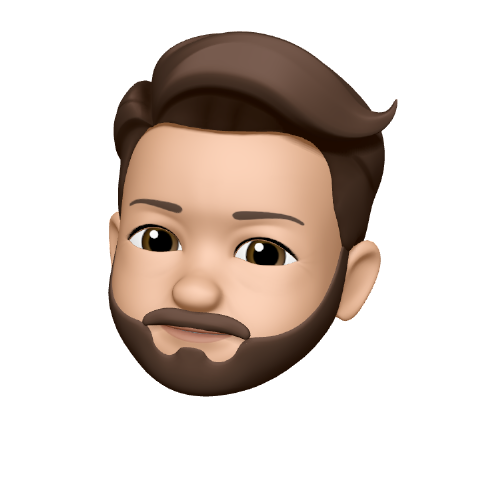
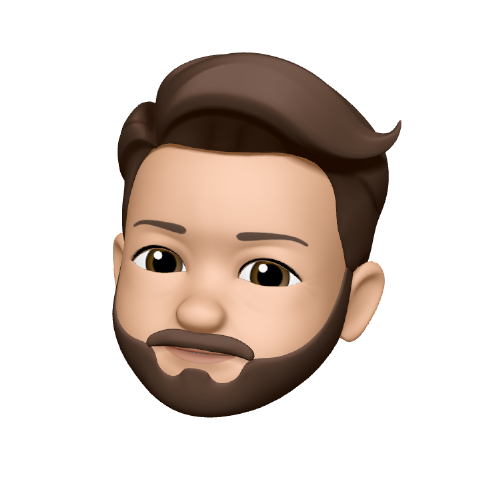
Adopt latest API for typography and minor changes

Changed region(s): [[0.2188, 0.0625, 0.8438, 0.875]]

diff --git a/pages/index.js b/pages/index.js
@@ -1,42 +1,59 @@
 import React from "react";
 import Icon from "supercons";
+import Image from "next/image";
 
 import Layout from "@components/layout";
 import PostItem from "@components/postItem";
 import PostCard from "@components/postCard";
 import { getAllPostsForHome } from "@lib/cms";
+import profilePic from "../public/memoji.png";
 
 const Home = ({ posts }) => {
   return (
     <Layout>
       <div className="mt-24 lg:w-2/3 xl:w-1/2 mb-16 lg:mx-auto">
-        <h1 className="font-display font-semibold lg:text-5xl text-4xl mb-6 dark:text-gray-200">
-          Hola,
-          <br />
-          mi nombre es{" "}
-          <span className="bg-gradient-to-r from-red-500 to-orange-400 dark:from-red-400 dark:to-pink-400 bg-clip-text text-transparent">
-            Daniel Castillejo
-          </span>
-        </h1>
-        <h2 className="text-gray-700 dark:text-gray-400 font-body text-xl lg:text-2xl">
-          Soy Desarrollador de Software, entusiasta del Diseño y amante de la
-          Música.
-        </h2>
-        <div className="flex justify-between w-2/3 lg:w-1/3 mt-8 mb-32">
-          <div className="transition duration-300 transform hover:scale-110 hover:text-gray-900 dark:hover:text-gray-300 text-gray-400 rounded-full">
-            <a href="https:\\github.com\dkast" className="p-2 block">
-              <Icon glyph="github-fill" size={40} />
-            </a>
+        <div className="grid grid-cols-3 gap-6">
+          {/* Header and Social Networks */}
+          <div className="col-span-2">
+            <h1 className="font-display font-semibold lg:text-5xl text-4xl mb-6 dark:text-gray-200">
+              Hola,
+              <br />
+              mi nombre es{" "}
+              <span className="bg-gradient-to-r from-red-500 to-orange-400 dark:from-red-400 dark:to-pink-400 bg-clip-text text-transparent">
+                Daniel Castillejo
+              </span>
+            </h1>
+            <h2 className="text-gray-700 dark:text-gray-400 font-body text-xl lg:text-2xl">
+              Soy Desarrollador de Software, entusiasta del Diseño y amante de
+              la Música.
+            </h2>
+            <div className="flex justify-between w-2/3 lg:w-1/3 mt-8 mb-32">
+              <div className="transition duration-300 transform hover:scale-110 hover:text-gray-900 dark:hover:text-gray-300 text-gray-400 rounded-full">
+                <a href="https:\\github.com\dkast" className="p-2 block">
+                  <Icon glyph="github-fill" size={40} />
+                </a>
+              </div>
+              <div className="transition duration-300 transform hover:scale-110 hover:text-blue-400 text-gray-400 rounded-full">
+                <a href="https:\\twitter.com\dkast" className="p-2 block">
+                  <Icon glyph="twitter-fill" size={40} />
+                </a>
+              </div>
+              <div className="transition duration-300 transform hover:scale-110 hover:text-pink-600 text-gray-400 rounded-full">
+                <a href="https:\\instragram.com\dkast" className="p-2 block">
+                  <Icon glyph="instagram-fill" size={40} />
+                </a>
+              </div>
+            </div>
           </div>
-          <div className="transition duration-300 transform hover:scale-110 hover:text-blue-400 text-gray-400 rounded-full">
-            <a href="https:\\twitter.com\dkast" className="p-2 block">
-              <Icon glyph="twitter-fill" size={40} />
-            </a>
-          </div>
-          <div className="transition duration-300 transform hover:scale-110 hover:text-pink-600 text-gray-400 rounded-full">
-            <a href="https:\\instragram.com\dkast" className="p-2 block">
-              <Icon glyph="instagram-fill" size={40} />
-            </a>
+          {/* Profile Image */}
+          <div className="flex justify-center items-start">
+            <Image
+              src={profilePic}
+              alt="Avatar of the Author"
+              width={140}
+              height={140}
+              className="bg-gradient-to-br from-red-500 to-orange-400 dark:from-red-400 dark:to-pink-400 rounded-full"
+            ></Image>
           </div>
         </div>
         <h2 className="font-body text-xl mb-4 text-gray-600 dark:text-gray-200">

diff --git a/tailwind.config.js b/tailwind.config.js
@@ -14,79 +14,7 @@ module.exports = {
         body: ["Hind", "sans-serif"],
         sub: ["Roboto Mono", "sans-serif"],
         sans: ["Hind", ...fontFamily.sans]
-      },
-      typography: theme => ({
-        DEFAULT: {
-          css: {
-            color: theme("colors.gray.700")
-          }
-        },
-        light: {
-          css: [
-            {
-              color: theme("colors.gray.400"),
-              '[class~="lead"]': {
-                color: theme("colors.gray.300")
-              },
-              a: {
-                color: theme("colors.red.300")
-              },
-              strong: {
-                color: theme("colors.white")
-              },
-              "ol > li::before": {
-                color: theme("colors.gray.400")
-              },
-              "ul > li::before": {
-                backgroundColor: theme("colors.gray.600")
-              },
-              hr: {
-                borderColor: theme("colors.gray.200")
-              },
-              blockquote: {
-                color: theme("colors.gray.200"),
-                borderLeftColor: theme("colors.gray.600")
-              },
-              h1: {
-                color: theme("colors.white")
-              },
-              h2: {
-                color: theme("colors.white")
-              },
-              h3: {
-                color: theme("colors.white")
-              },
-              h4: {
-                color: theme("colors.white")
-              },
-              "figure figcaption": {
-                color: theme("colors.gray.400")
-              },
-              code: {
-                color: theme("colors.white")
-              },
-              "a code": {
-                color: theme("colors.white")
-              },
-              pre: {
-                color: theme("colors.gray.200")
-              },
-              thead: {
-                color: theme("colors.white"),
-                borderBottomColor: theme("colors.gray.400")
-              },
-              "tbody tr": {
-                borderBottomColor: theme("colors.gray.600")
-              }
-            }
-          ]
-        }
-      })
-    }
-  },
-  variants: {
-    extend: {
-      typography: ["dark"]
+      }
     }
   },
   plugins: [require("@tailwindcss/typography")]

diff --git a/pages/post/[slug].js b/pages/post/[slug].js
@@ -5,8 +5,9 @@ import { NextSeo } from "next-seo";
 import { MDXRemote } from "next-mdx-remote";
 import { useRouter } from "next/dist/client/router";
 
-import Layout from "../../components/layout";
-import HeroImage from "../../components/heroImage";
+import Layout from "@components/layout";
+import HeroImage from "@components/heroImage";
+import Markdown from "@components/markdown";
 import { getAllPosts, getPostAndMorePosts } from "../../lib/cms";
 
 const Post = ({
@@ -69,9 +70,9 @@ const Post = ({
         <HeroImage unsplashId={post.fields.unsplashId}></HeroImage>
       </div>
       <div className="py-8 max-w-2xl mx-auto">
-        <div className="prose lg:prose-lg prose-red dark:prose-light max-w-none mt-8 lg:mt-18">
+        <Markdown className="max-w-none mt-8 lg:mt-18">
           <MDXRemote {...mdxSource} />
-        </div>
+        </Markdown>
       </div>
     </Layout>
   );

diff --git a/pages/about.js b/pages/about.js
@@ -2,8 +2,9 @@ import React from "react";
 import Head from "next/head";
 import { MDXRemote } from "next-mdx-remote";
 
-import Layout from "../components/layout";
-import { getPageContent } from "../lib/cms";
+import Layout from "@components/layout";
+import Markdown from "@components/markdown";
+import { getPageContent } from "@lib/cms";
 
 const About = ({ mdxSource }) => {
   return (
@@ -12,9 +13,9 @@ const About = ({ mdxSource }) => {
         <title>Acerca de mi - Daniel Castillejo</title>
       </Head>
       <div className="mt-24 max-w-2xl mb-16 mx-auto">
-        <div className="prose lg:prose-lg prose-red dark:prose-light max-w-none">
+        <Markdown className="max-w-none">
           <MDXRemote {...mdxSource} />
-        </div>
+        </Markdown>
       </div>
     </Layout>
   );

diff --git a/components/markdown.js b/components/markdown.js
@@ -1,0 +1,12 @@
+const Markdown = ({ children, className }) => {
+  return (
+    <div
+      className={`prose lg:prose-lg prose-a:underline prose-a:decoration-red-400 prose-a:decoration-2 prose-pre:bg-gray-800  
+      prose-code:text-red-500 dark:prose-invert dark:prose-p:text-gray-400 ${className}`}
+    >
+      {children}
+    </div>
+  );
+};
+
+export default Markdown;

diff --git a/styles/globals.css b/styles/globals.css
@@ -16,10 +16,6 @@
   }
 }
 
-.prose pre {
-  @apply bg-gray-800;
-}
-
 .token.comment,
 .token.prolog,
 .token.doctype,
